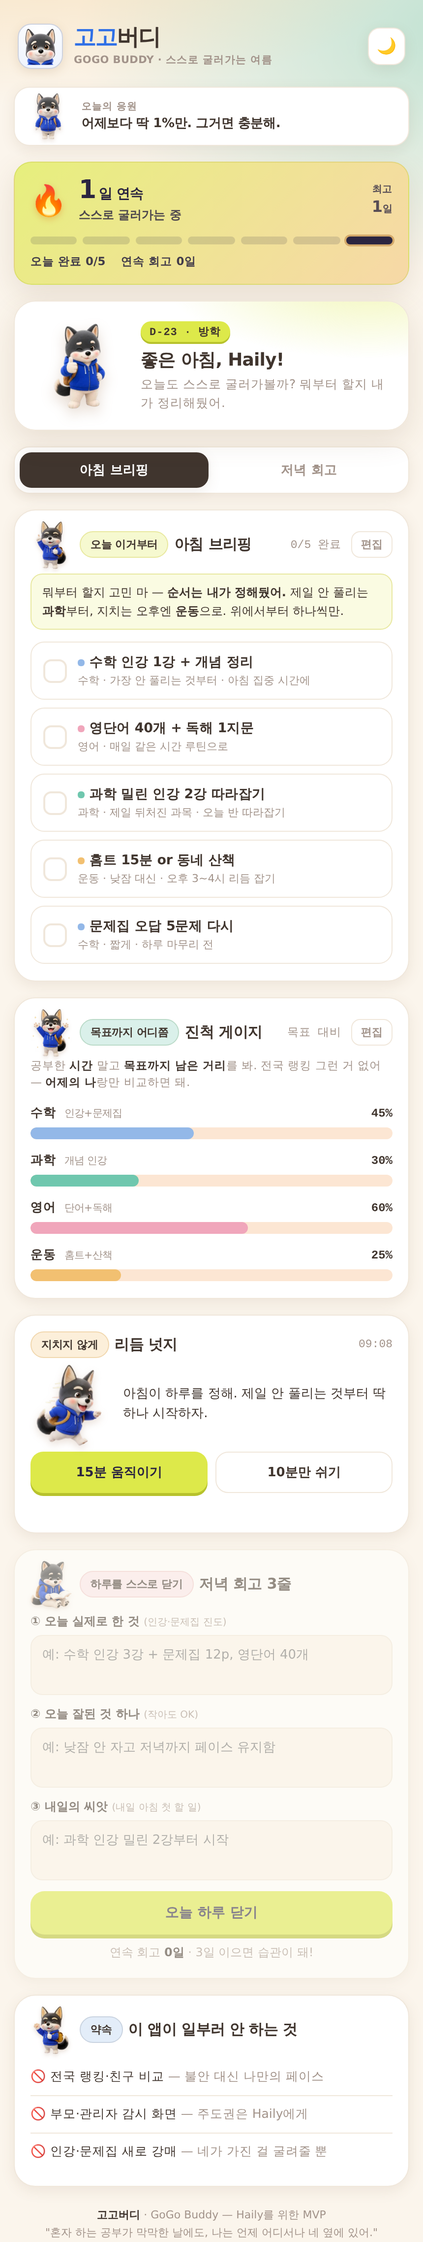
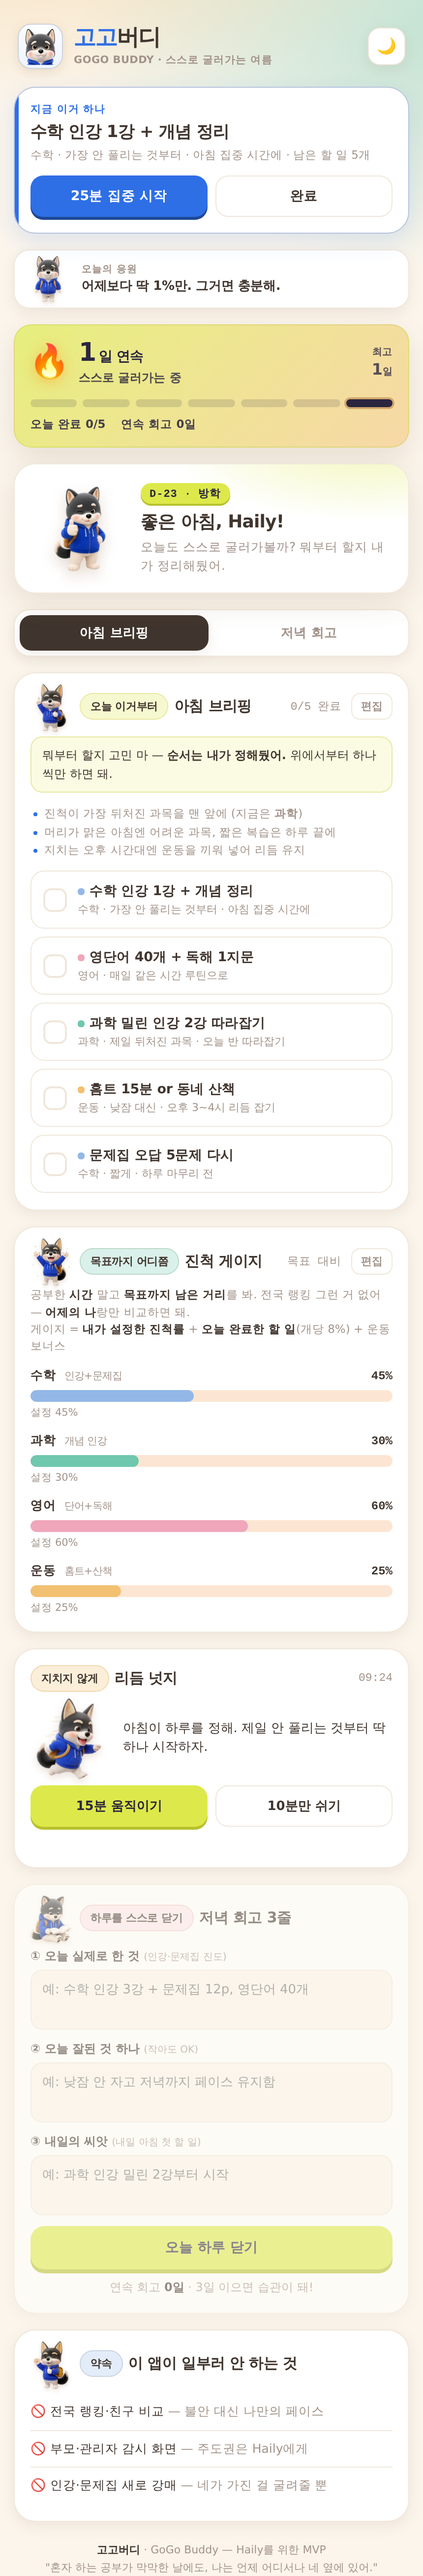
실제 유저 피드백 반영: 다음 행동 노출·진척 근거·일정 규칙
- (A) '지금 이거 하나' 카드를 최상단에 추가: 미완료 1순위 할 일 + 25분 집중 타이머 + 완료 버튼
- (B) 진척 게이지에 산출 근거 표기(설정 진척률 + 오늘 완료 + 운동 보너스)
- (C) 아침 브리핑에 일정 생성 규칙 3줄 명시
- 다크모드 가독성 수정: D-day 배지·브랜드 버튼의 글자색을 배경별로 분리(--on-brand)
- 새 기능이 반영된 스크린샷으로 전면 교체, submission.md 실행 화면·반영 내역 갱신

Claude-Session: https://claude.ai/code/session_01Aq5fCgQTr2L5UhckyziSbp

diff --git a/1_mission/6조/웃는돌(장경아)/4주차 과제 제출 폴더/haily-vacation-buddy.html b/1_mission/6조/웃는돌(장경아)/4주차 과제 제출 폴더/haily-vacation-buddy.html
@@ -12,6 +12,7 @@
     --lime: #DDE94A;
     --lime-deep: #B7C22C;
     --brand: #2E6FE6;
+    --on-brand: #FFFFFF;
     --sky: #93B8E8;
     --mint: #6FC7AE;
     --pink: #F0A6BB;
@@ -33,6 +34,7 @@
       --lime: #E4EF4E;
       --lime-deep: #E4EF4E;
       --brand: #7FA9EC;
+      --on-brand: #142440;
       --sky: #7FA0CE;
       --mint: #63B79D;
       --pink: #D291A5;
@@ -43,13 +45,13 @@
   }
   :root[data-theme="light"] {
     --bg: #FBF5EC; --bg-2: #FCE6D3; --card: #FFFFFF; --ink: #40352E; --muted: #A2938A;
-    --line: #F0E7DB; --lime: #DDE94A; --lime-deep: #B7C22C; --brand: #2E6FE6; --sky: #93B8E8; --mint: #6FC7AE;
+    --line: #F0E7DB; --lime: #DDE94A; --lime-deep: #B7C22C; --brand: #2E6FE6; --on-brand: #FFFFFF; --sky: #93B8E8; --mint: #6FC7AE;
     --pink: #F0A6BB; --apricot: #F2C071; --shadow: 0 10px 30px rgba(120,90,60,.14);
     --shadow-sm: 0 4px 14px rgba(120,90,60,.10);
   }
   :root[data-theme="dark"] {
     --bg: #1E1A17; --bg-2: #2A2320; --card: #2B2521; --ink: #F6EEE5; --muted: #B6A79B;
-    --line: #3C332C; --lime: #E4EF4E; --lime-deep: #E4EF4E; --brand: #7FA9EC; --sky: #7FA0CE; --mint: #63B79D;
+    --line: #3C332C; --lime: #E4EF4E; --lime-deep: #E4EF4E; --brand: #7FA9EC; --on-brand: #142440; --sky: #7FA0CE; --mint: #63B79D;
     --pink: #D291A5; --apricot: #D9AE6F; --shadow: 0 12px 34px rgba(0,0,0,.40);
     --shadow-sm: 0 4px 16px rgba(0,0,0,.34);
   }
@@ -146,7 +148,7 @@
   .hi { z-index: 1; }
   .dday {
     display: inline-block; font-family: var(--mono); font-size: 11px; font-weight: 700;
-    letter-spacing: .5px; color: var(--ink);
+    letter-spacing: .5px; color: #2b2540;
     background: var(--lime); padding: 3px 9px; border-radius: 999px;
     box-shadow: 0 2px 0 var(--lime-deep); margin-bottom: 7px;
   }
@@ -374,6 +376,47 @@
     100% { transform: translateY(0) rotate(0deg); }
   }
 
+  /* NOW card — 다음 행동을 최상단에 */
+  .now-card {
+    background: var(--card); border: 1px solid color-mix(in srgb, var(--brand) 30%, var(--line));
+    border-radius: var(--radius); padding: 15px 16px 16px;
+    box-shadow: 0 8px 24px color-mix(in srgb, var(--brand) 14%, transparent);
+    position: relative; overflow: hidden;
+  }
+  .now-card::before {
+    content: ""; position: absolute; left: 0; top: 0; bottom: 0; width: 4px; background: var(--brand);
+  }
+  .now-label {
+    font-size: 10.5px; font-weight: 800; letter-spacing: .4px; color: var(--brand);
+    text-transform: uppercase; margin-bottom: 5px;
+  }
+  .now-title { font-size: 17px; font-weight: 800; letter-spacing: -.4px; line-height: 1.35; color: var(--ink); }
+  .now-meta { font-size: 11.5px; color: var(--muted); margin-top: 4px; }
+  .now-actions { display: flex; gap: 8px; margin-top: 13px; }
+  .now-actions button {
+    flex: 1; padding: 11px; border-radius: 13px; font-size: 13.5px; font-weight: 800; cursor: pointer;
+    font-family: var(--font); border: 1px solid var(--line); background: var(--card); color: var(--ink);
+  }
+  .now-actions .now-start {
+    background: var(--brand); border-color: transparent; color: var(--on-brand);
+    box-shadow: 0 3px 0 color-mix(in srgb, var(--brand) 65%, #000);
+  }
+  .now-actions .now-start:active { transform: translateY(2px); box-shadow: 0 1px 0 color-mix(in srgb, var(--brand) 65%, #000); }
+  .now-timer { margin-top: 13px; }
+  .nt-head { display: flex; justify-content: space-between; align-items: baseline; margin-bottom: 7px; }
+  .nt-head span:first-child { font-size: 12.5px; font-weight: 700; }
+  .nt-time { font-family: var(--mono); font-size: 24px; font-weight: 800; font-variant-numeric: tabular-nums; }
+  .now-timer .timer-fill { background: linear-gradient(90deg, var(--brand), var(--mint)); }
+  .now-card.done-all .now-title { color: var(--muted); }
+
+  /* gauge breakdown */
+  .g-basis { font-size: 10.5px; color: var(--muted); margin-top: 4px; letter-spacing: -.1px; }
+
+  /* schedule rule */
+  .rule-list { margin: 0 0 12px; padding: 0; list-style: none; font-size: 11.5px; color: var(--muted); line-height: 1.6; }
+  .rule-list li { padding-left: 14px; position: relative; }
+  .rule-list li::before { content: ""; position: absolute; left: 3px; top: 8px; width: 4px; height: 4px; border-radius: 50%; background: var(--brand); }
+
   /* quote banner */
   .quote-banner {
     display: flex; align-items: center; gap: 10px;
@@ -436,6 +479,21 @@
     <button class="theme-btn" id="themeBtn" aria-label="테마 전환" title="라이트/다크 전환">🌙</button>
   </div>
 
+  <div class="now-card" id="nowCard">
+    <div class="now-label">지금 이거 하나</div>
+    <div class="now-title" id="nowTitle">—</div>
+    <div class="now-meta" id="nowMeta"></div>
+    <div class="now-actions" id="nowActions">
+      <button class="now-start" id="nowStart">25분 집중 시작</button>
+      <button id="nowDone">완료</button>
+    </div>
+    <div class="now-timer" id="nowTimer" hidden>
+      <div class="nt-head"><span>집중 중</span><span class="nt-time" id="nowTime">25:00</span></div>
+      <div class="timer-bar"><div class="timer-fill" id="nowFill"></div></div>
+      <button class="timer-cancel" id="nowCancel">그만두기</button>
+    </div>
+  </div>
+
   <div class="quote-banner">
     <img class="mini qb-mascot" data-expr="happy" alt="" aria-hidden="true" />
     <div class="qb-body">
@@ -483,7 +541,12 @@
       <span class="sub" id="doneCount">0/5 완료</span>
       <button class="edit-btn" id="editTasksBtn">편집</button>
     </div>
-    <p class="coach">뭐부터 할지 고민 마 — <b>순서는 내가 정해뒀어.</b> 제일 안 풀리는 <b>과학</b>부터, 지치는 오후엔 <b>운동</b>으로. 위에서부터 하나씩만.</p>
+    <p class="coach">뭐부터 할지 고민 마 — <b>순서는 내가 정해뒀어.</b> 위에서부터 하나씩만 하면 돼.</p>
+    <ul class="rule-list">
+      <li>진척이 가장 뒤처진 과목을 맨 앞에 (지금은 <b>과학</b>)</li>
+      <li>머리가 맑은 아침엔 어려운 과목, 짧은 복습은 하루 끝에</li>
+      <li>지치는 오후 시간대엔 운동을 끼워 넣어 리듬 유지</li>
+    </ul>
     <div id="taskList"></div>
   </div>
 
@@ -496,7 +559,8 @@
       <span class="sub">목표 대비</span>
       <button class="edit-btn" id="editSubjBtn">편집</button>
     </div>
-    <p class="cap">공부한 <b>시간</b> 말고 <b>목표까지 남은 거리</b>를 봐. 전국 랭킹 그런 거 없어 — <b>어제의 나</b>랑만 비교하면 돼.</p>
+    <p class="cap">공부한 <b>시간</b> 말고 <b>목표까지 남은 거리</b>를 봐. 전국 랭킹 그런 거 없어 — <b>어제의 나</b>랑만 비교하면 돼.<br>
+      게이지 = <b>내가 설정한 진척률</b> + <b>오늘 완료한 할 일</b>(개당 8%) + 운동 보너스</p>
     <div id="gaugeList"></div>
   </div>
 
@@ -807,6 +871,7 @@
     var n = state.tasks.filter(function (t) { return state.done[t.id]; }).length;
     document.getElementById("doneCount").textContent = n + "/" + state.tasks.length + " 완료";
     if (typeof renderStreakNews === "function") renderStreakNews();
+    if (typeof renderNow === "function") renderNow();
   }
   document.getElementById("editTasksBtn").addEventListener("click", function () {
     editMode.tasks = !editMode.tasks; editingTaskId = null;
@@ -826,6 +891,14 @@
     var bonus = state.bonus[key] || 0;
     return Math.max(0, Math.min(100, (s.pct || 0) + todays * 8 + bonus));
   }
+  function basisText(key, s) {
+    var todays = state.tasks.filter(function (t) { return t.subj === key && state.done[t.id]; }).length;
+    var bonus = state.bonus[key] || 0;
+    var parts = ["설정 " + (s.pct || 0) + "%"];
+    if (todays) parts.push("오늘 완료 " + todays + "개 +" + todays * 8 + "%");
+    if (bonus) parts.push("운동 보너스 +" + bonus + "%");
+    return '<div class="g-basis">' + parts.join(" · ") + "</div>";
+  }
   function renderGauges() {
     gEl.innerHTML = "";
     Object.keys(state.subjects).forEach(function (key) {
@@ -838,7 +911,8 @@
         '<div class="g-top"><div class="g-name">' + esc(s.name) +
           ' <small>' + esc(s.tool) + "</small></div>" +
           '<div class="g-pct">' + pct + "%</div></div>" +
-        '<div class="track"><div class="fill" style="background:' + s.color + '"></div></div>';
+        '<div class="track"><div class="fill" style="background:' + s.color + '"></div></div>' +
+        basisText(key, s);
       gEl.appendChild(g);
       requestAnimationFrame(function () { g.querySelector(".fill").style.width = pct + "%"; });
     });
@@ -917,12 +991,22 @@
   var timerLabelEl = document.getElementById("timerLabel");
   var timerTimeEl = document.getElementById("timerTime");
   var timerFillEl = document.getElementById("timerFill");
-  var TIMER_DUR = { move: 15 * 60, rest: 10 * 60 };
-  var TIMER_LABEL = { move: "움직이는 중", rest: "쉬는 중" };
+  var TIMER_DUR = { move: 15 * 60, rest: 10 * 60, focus: 25 * 60 };
+  var TIMER_LABEL = { move: "움직이는 중", rest: "쉬는 중", focus: "집중 중" };
+  var nowActionsEl = document.getElementById("nowActions");
+  var nowTimerEl = document.getElementById("nowTimer");
+  var nowTimeEl = document.getElementById("nowTime");
+  var nowFillEl = document.getElementById("nowFill");
   var timerTick = null, audioCtx = null, chimeTimers = [];
 
   function fmt(sec) { sec = Math.max(0, Math.round(sec)); return String(Math.floor(sec / 60)).padStart(2, "0") + ":" + String(sec % 60).padStart(2, "0"); }
-  function showTimerUI(on) { nudgeActions.hidden = on; timerBox.hidden = !on; }
+  function showTimerUI(on, mode) {
+    var focus = mode === "focus";
+    nudgeActions.hidden = on && !focus;
+    timerBox.hidden = !(on && !focus);
+    nowActionsEl.hidden = on && focus;
+    nowTimerEl.hidden = !(on && focus);
+  }
 
   function startTimer(mode) {
     ensureAudio();
@@ -930,34 +1014,78 @@
     state.timer = { mode: mode, endsAt: Date.now() + dur * 1000, dur: dur };
     save();
     timerLabelEl.textContent = TIMER_LABEL[mode];
-    reply.textContent = mode === "move" ?"좋아, 15분만 몸에 집중! 끝나면 깨워줄게." : " 10분 휴식 시작. 눕지 말고 앉아서 쉬어.";
-    say(mode === "move" ?"타이머 켰어! 움직이고 오면 머리 맑아져" : "10분 뒤에 깨워줄게. 푹 쉬어");
-    showTimerUI(true);
+    if (mode === "focus") {
+      say("25분만 이거 하나에 집중! 끝나면 깨워줄게");
+    } else {
+      reply.textContent = mode === "move" ? "좋아, 15분만 몸에 집중! 끝나면 깨워줄게." : "10분 휴식 시작. 눕지 말고 앉아서 쉬어.";
+      say(mode === "move" ? "타이머 켰어! 움직이고 오면 머리 맑아져" : "10분 뒤에 깨워줄게. 푹 쉬어");
+    }
+    showTimerUI(true, mode);
     runTimerLoop();
   }
   function runTimerLoop() { if (timerTick) clearInterval(timerTick); tickTimer(); timerTick = setInterval(tickTimer, 250); }
   function tickTimer() {
     if (!state.timer) return;
     var remain = (state.timer.endsAt - Date.now()) / 1000;
-    timerTimeEl.textContent = fmt(remain);
-    timerFillEl.style.width = Math.max(0, Math.min(100, (remain / state.timer.dur) * 100)) + "%";
-    if (remain<= 0) finishTimer();
+    var pct = Math.max(0, Math.min(100, (remain / state.timer.dur) * 100)) + "%";
+    if (state.timer.mode === "focus") { nowTimeEl.textContent = fmt(remain); nowFillEl.style.width = pct; }
+    else { timerTimeEl.textContent = fmt(remain); timerFillEl.style.width = pct; }
+    if (remain <= 0) finishTimer();
   }
   function finishTimer() {
     if (timerTick) { clearInterval(timerTick); timerTick = null; }
     var mode = state.timer ? state.timer.mode : "move";
     state.timer = null; save();
-    showTimerUI(false);
+    showTimerUI(false, mode);
     if (mode === "move") { state.bonus.pe = Math.min(30, (state.bonus.pe || 0) + 10); save(); renderGauges(); }
-    reply.textContent = mode === "move" ?" 15분 완료! 운동 게이지 올라갔어." : "휴식 끝! 이제 다시 집중 각.";
+    if (mode !== "focus") reply.textContent = mode === "move" ? "15분 완료! 운동 게이지 올라갔어." : "휴식 끝! 이제 다시 집중 각.";
     showAlarm(mode);
   }
   function cancelTimer() {
     if (timerTick) { clearInterval(timerTick); timerTick = null; }
+    var m = state.timer ? state.timer.mode : "move";
     state.timer = null; save();
-    showTimerUI(false);
-    reply.textContent = "괜찮아, 언제든 다시 눌러";
+    showTimerUI(false, m);
+    if (m !== "focus") reply.textContent = "괜찮아, 언제든 다시 눌러";
   }
+  /* NOW 카드 — 다음 할 일 하나를 최상단에 */
+  function nextTask() {
+    for (var i = 0; i < state.tasks.length; i++) { if (!state.done[state.tasks[i].id]) return state.tasks[i]; }
+    return null;
+  }
+  function renderNow() {
+    var card = document.getElementById("nowCard");
+    var t = nextTask();
+    var titleEl = document.getElementById("nowTitle"), metaEl = document.getElementById("nowMeta");
+    if (!state.tasks.length) {
+      card.classList.add("done-all");
+      titleEl.textContent = "아직 할 일이 없어";
+      metaEl.textContent = "아침 브리핑에서 편집을 눌러 오늘 할 일을 넣어봐";
+      nowActionsEl.hidden = true; nowTimerEl.hidden = true; return;
+    }
+    if (!t) {
+      card.classList.add("done-all");
+      titleEl.textContent = "오늘 할 일 다 했어!";
+      metaEl.textContent = "이제 저녁 회고 3줄만 쓰면 하루를 스스로 잘 닫는 거야";
+      nowActionsEl.hidden = true; nowTimerEl.hidden = true; return;
+    }
+    card.classList.remove("done-all");
+    var subj = state.subjects[t.subj] || { name: "기타" };
+    var left = state.tasks.filter(function (x) { return !state.done[x.id]; }).length;
+    titleEl.textContent = t.title;
+    metaEl.textContent = subj.name + " · " + t.meta + " · 남은 할 일 " + left + "개";
+    if (!state.timer) { nowActionsEl.hidden = false; nowTimerEl.hidden = true; }
+  }
+  document.getElementById("nowStart").addEventListener("click", function () { startTimer("focus"); });
+  document.getElementById("nowCancel").addEventListener("click", cancelTimer);
+  document.getElementById("nowDone").addEventListener("click", function () {
+    var t = nextTask(); if (!t) return;
+    state.done[t.id] = true; save();
+    renderTasks(); renderGauges(); updateDoneCount();
+    heroExpr = "cheer"; drawMascot();
+    say(pick(["하나 해결! 게이지 차는 거 봐", "이거 굴러가는 소리 좋다", "잘한다 진짜!"]));
+  });
+
   document.getElementById("btnMove").addEventListener("click", function () { startTimer("move"); });
   document.getElementById("btnRest").addEventListener("click", function () { startTimer("rest"); });
   document.getElementById("timerCancel").addEventListener("click", cancelTimer);
@@ -966,10 +1094,14 @@
   var alarmEl = document.getElementById("alarm");
   var alarmMascot = document.getElementById("alarmMascot");
   function showAlarm(mode) {
-    document.getElementById("alarmTitle").textContent = mode === "move" ?"15분 끝!" : "휴식 끝!";
-    document.getElementById("alarmMsg").textContent = mode === "move"
-      ?"잘 움직였어! 몸이 풀렸으니 이제 집중 각"
-      : "잘 쉬었어! 개운하게 다시 시작해볼까?";
+    var TITLES = { move: "15분 끝!", rest: "휴식 끝!", focus: "25분 집중 끝!" };
+    var MSGS = {
+      move: "잘 움직였어! 몸이 풀렸으니 이제 집중 각",
+      rest: "잘 쉬었어! 개운하게 다시 시작해볼까?",
+      focus: "잘했어! 방금 한 거 완료로 체크하고 잠깐 숨 돌리자"
+    };
+    document.getElementById("alarmTitle").textContent = TITLES[mode] || "시간 다 됐어";
+    document.getElementById("alarmMsg").textContent = MSGS[mode] || "";
     setBuddy(alarmMascot, "cheer", false);
     alarmEl.hidden = false;
     chime();
@@ -1014,11 +1146,11 @@
     if (!state.timer) return;
     if (state.timer.endsAt >Date.now()) {
       timerLabelEl.textContent = TIMER_LABEL[state.timer.mode] || "타이머";
-      showTimerUI(true); runTimerLoop();
+      showTimerUI(true, state.timer.mode); runTimerLoop();
     } else {
       var mode = state.timer.mode; state.timer = null; save();
       if (mode === "move") { state.bonus.pe = Math.min(30, (state.bonus.pe || 0) + 10); save(); renderGauges(); }
-      reply.textContent = "타이머가 끝나 있었어! 잘했어.";
+      if (mode !== "focus") reply.textContent = "타이머가 끝나 있었어! 잘했어.";
     }
   }
 
@@ -1116,7 +1248,7 @@
 
   /* ---------- Init ---------- */
   computeStreak(); renderQuote();
-  renderTasks(); renderGauges(); updateDoneCount(); renderStreak(); renderStreakNews(); refreshTime();
+  renderTasks(); renderGauges(); updateDoneCount(); renderStreak(); renderStreakNews(); renderNow(); refreshTime();
   resumeTimer();
   setInterval(refreshTime, 60000);
   window.matchMedia("(prefers-color-scheme: dark)").addEventListener("change", function () {

diff --git a/1_mission/6조/웃는돌(장경아)/4주차 과제 제출 폴더/submission.md b/1_mission/6조/웃는돌(장경아)/4주차 과제 제출 폴더/submission.md
@@ -30,11 +30,21 @@ date: 2026-07-22
   - **리듬 넛지 타이머·알람**: 15분 움직이기 / 10분 쉬기 카운트다운이 실제로 돌아가고, 시간이 되면 마스코트가 등장하는 화면 알람 + 소리(Web Audio 차임) + 진동으로 깨워줌 (새로고침해도 이어짐)
   - **실행 링크(공개):** https://sparkling-arithmetic-fd1b51.netlify.app
 
+  **🔄 실제 유저 피드백 반영 (과제 2 → 재구현)**
+  - **(A) "지금 이거 하나" 카드를 최상단에** — 미완료 1순위 할 일을 크게 노출하고 `25분 집중 시작`(포모도로 타이머)·`완료` 버튼을 붙였다. "바로 시작할 다음 미션이 안 보인다"는 지적에 대한 직접 대응.
+  - **(B) 진척 게이지 산출 근거 노출** — 각 게이지 아래에 `설정 45% · 오늘 완료 2개 +16% · 운동 보너스 +10%`처럼 계산 내역을 표기하고, 상단에 공식을 한 줄로 명시.
+  - **(C) 일정 생성 규칙 명시** — 아침 브리핑에 배치 원리 3줄(뒤처진 과목 먼저 / 아침엔 어려운 과목 / 오후엔 운동)을 추가.
+  - **(다크모드 가독성)** D-day 배지와 주요 버튼의 글자색을 배경별로 분리해 대비 확보.
+
 **📸 실행 화면**
 
-| 메인 상단(응원·습관 스트릭·마스코트) | 진척 게이지 편집 | 리듬 넛지 알람 |
+| 상단: "지금 이거 하나" + 습관 스트릭 | 아침 브리핑 + 일정 생성 규칙 | 진척 게이지 + 산출 근거 |
 |---|---|---|
-| ![상단](이미지첨부/02_상단_스트릭_응원.png) | ![편집](이미지첨부/03_진척게이지_편집.png) | ![알람](이미지첨부/04_리듬넛지_알람.png) |
+| ![상단](이미지첨부/02_상단_지금이거하나_스트릭.png) | ![브리핑](이미지첨부/03_아침브리핑_일정규칙.png) | ![게이지](이미지첨부/05_진척게이지_산출근거.png) |
+
+| 리듬 넛지 알람 | 편집 모드 | 다크 모드 |
+|---|---|---|
+| ![알람](이미지첨부/04_리듬넛지_알람.png) | ![편집](이미지첨부/06_편집모드.png) | ![다크](이미지첨부/07_다크모드.png) |
 
 ![메인화면 전체](이미지첨부/01_메인화면.png)
 
